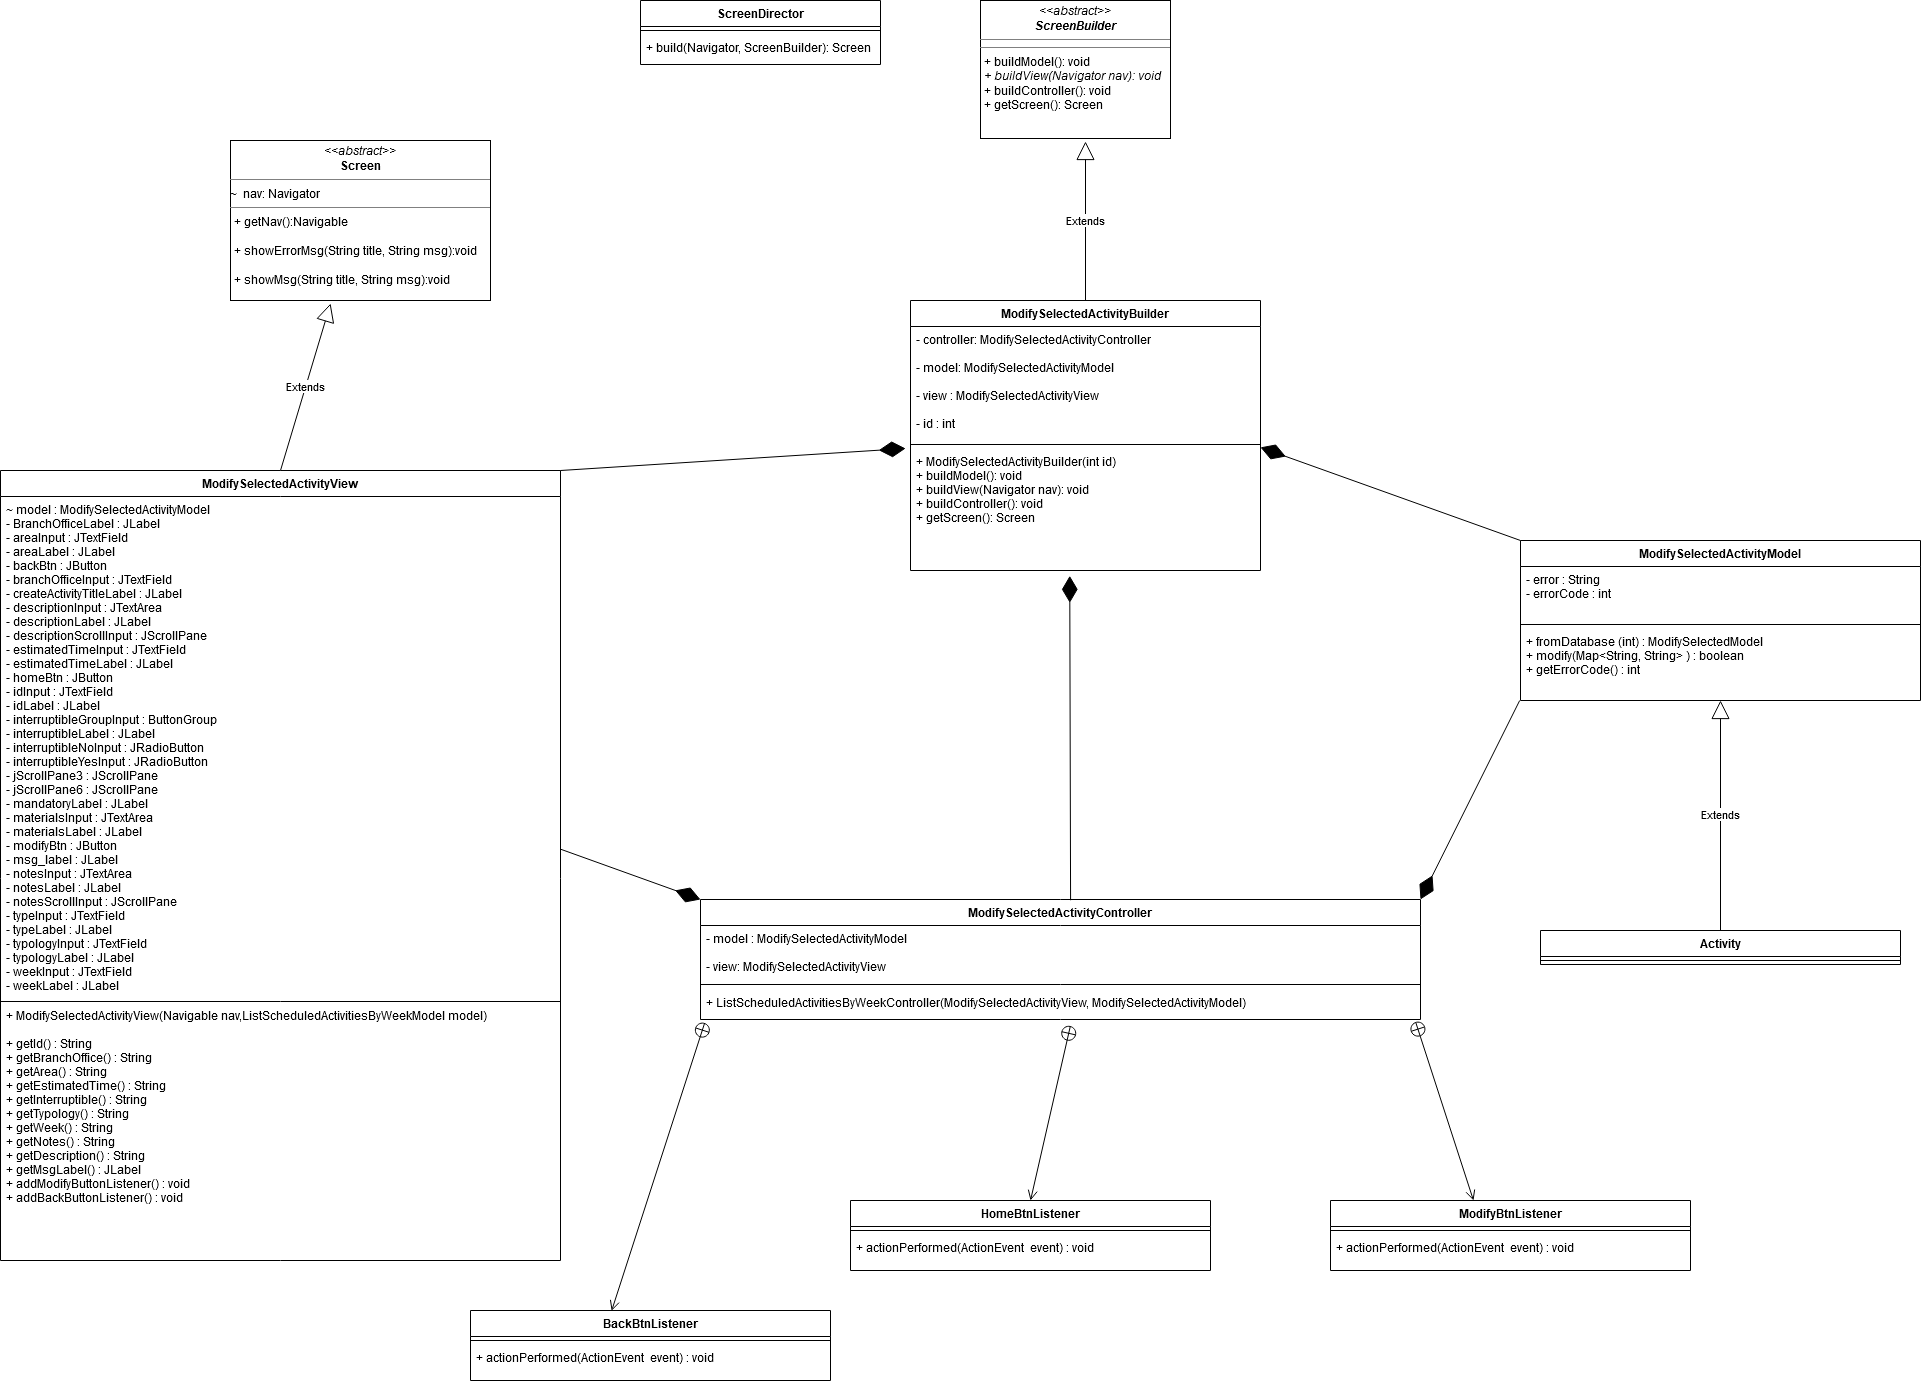
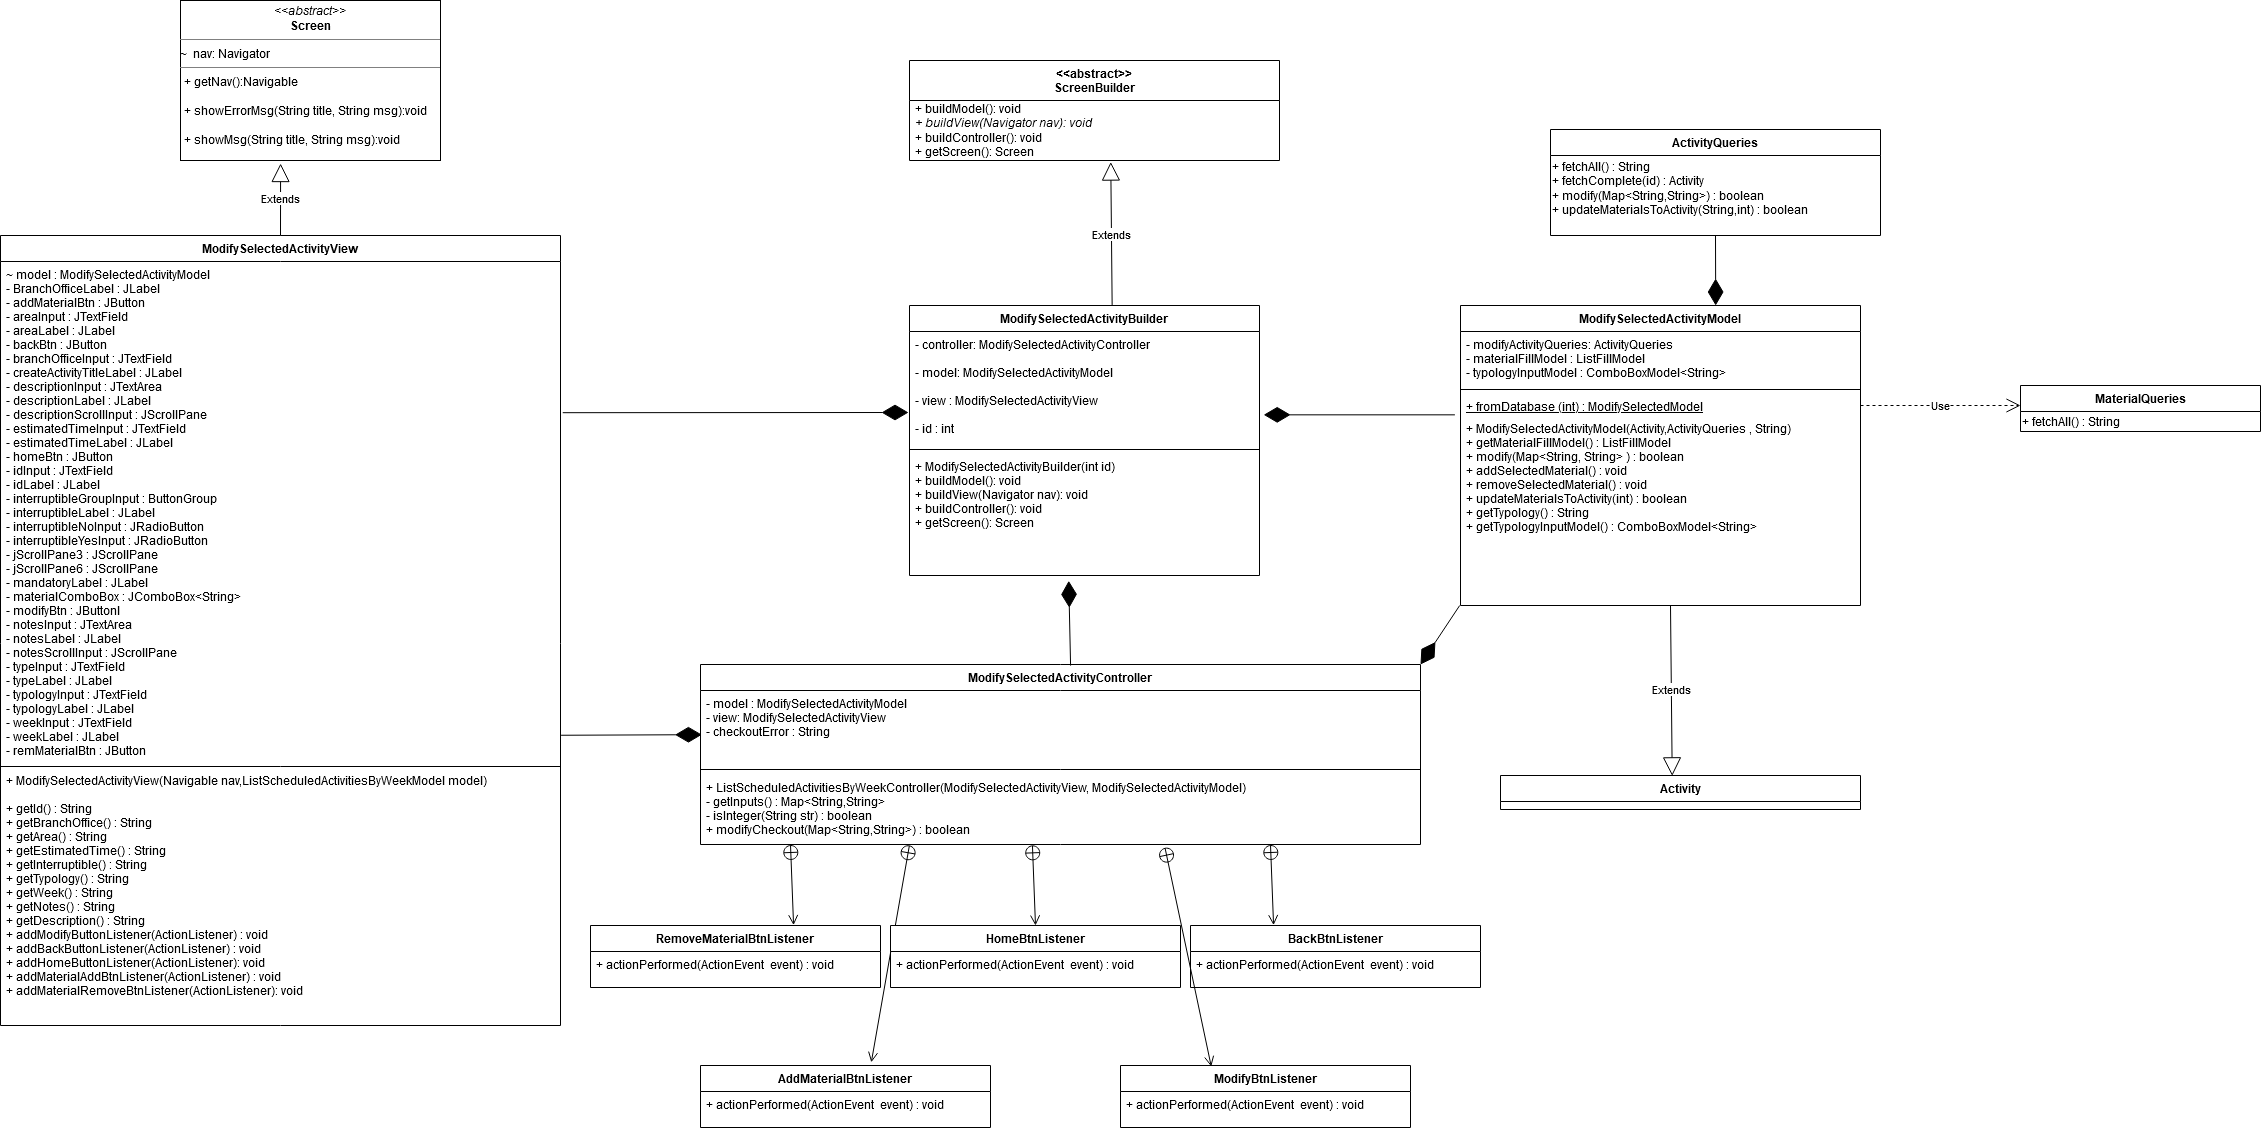
Refactor of createuser using the user in entities
little changes to createuser,listscheduledactivitiesbyweek,modifyselectedactivity
Added the correct designs

diff --git a/MaintenanceApp/src/root/screens/createuser/UserView.java b/MaintenanceApp/src/root/screens/createuser/UserView.java
@@ -1,8 +1,4 @@
-/*
- * To change this license header, choose License Headers in Project Properties.
- * To change this template file, choose Tools | Templates
- * and open the template in the editor.
- */
+
 package root.screens.createuser;
 
 import java.awt.event.ActionListener;
@@ -123,7 +119,7 @@ public class UserView extends Screen {
                         .addGap(0, 0, Short.MAX_VALUE))
                     .addComponent(addressInput, javax.swing.GroupLayout.Alignment.TRAILING)
                     .addComponent(createBtn, javax.swing.GroupLayout.DEFAULT_SIZE, javax.swing.GroupLayout.DEFAULT_SIZE, Short.MAX_VALUE)
-                    .addComponent(cfInput, javax.swing.GroupLayout.DEFAULT_SIZE, 290, Short.MAX_VALUE))
+                    .addComponent(cfInput, javax.swing.GroupLayout.DEFAULT_SIZE, 323, Short.MAX_VALUE))
                 .addContainerGap())
         );
         layout.setVerticalGroup(
@@ -169,7 +165,7 @@ public class UserView extends Screen {
                 .addComponent(addressInput, javax.swing.GroupLayout.PREFERRED_SIZE, 33, javax.swing.GroupLayout.PREFERRED_SIZE)
                 .addPreferredGap(javax.swing.LayoutStyle.ComponentPlacement.RELATED)
                 .addComponent(createBtn)
-                .addContainerGap(javax.swing.GroupLayout.DEFAULT_SIZE, Short.MAX_VALUE))
+                .addContainerGap(51, Short.MAX_VALUE))
         );
     }// </editor-fold>//GEN-END:initComponents
 

diff --git a/MaintenanceApp/test/UserControllerTest.java b/MaintenanceApp/test/UserControllerTest.java
@@ -6,7 +6,7 @@ import org.junit.*;
 import static org.junit.Assert.*;
 import queries.UserQueries;
 import root.Navigable;
-import root.screens.createuser.User;
+import root.entities.User;
 import root.screens.createuser.UserController;
 import root.screens.createuser.UserModel;
 import root.screens.createuser.UserView;
@@ -377,8 +377,8 @@ public class UserControllerTest {
         inputMap.put("address", viewStub.getAddress());
         
         User testUser = controller.createUser(inputMap);
-        User user = new User("GRRTPO04E11L320M","OLMO5","sadasdhjqwdoklkòsd","OLMO","GUERRA",
-                "olm@gmail.com","Avellino Via roma",User.RoleType.P);    
+        User user = new User("OLMO","GUERRA","GRRTPO04E11L320M","olm@gmail.com","Avellino Via roma",
+                "OLMO5","sadasdhjqwdoklkòsd",User.UserRole.PLANNER);     
         assertEquals(user.getCf(), testUser.getCf());
         assertEquals(user.getUsername(), testUser.getUsername());
         assertEquals(user.getPassword(), testUser.getPassword());

diff --git a/MaintenanceApp/src/queries/UserQueries.java b/MaintenanceApp/src/queries/UserQueries.java
@@ -132,7 +132,7 @@ public class UserQueries {
      * @param user
      * @return  true if the insert was successful
      */
-    public boolean insertIntoAppUser(root.screens.createuser.User user){
+    public boolean insertIntoAppUser(User user){
         String query = "INSERT INTO appuser "+
             "(cf, username, pass, user_role, name,"+
             "surname, email, address) VALUES "+
@@ -142,7 +142,7 @@ public class UserQueries {
                 stmt.setString(1, user.getCf());
                 stmt.setString(2,user.getUsername());
                 stmt.setString(3, user.getPassword());
-                stmt.setString(4, user.getRole().toString());
+                stmt.setString(4, user.convertRoleInChar(user.getRole()));
                 stmt.setString(5, user.getName());
                 stmt.setString(6, user.getSurname());
                 stmt.setString(7, user.getEmail());

diff --git a/MaintenanceApp/src/root/screens/createuser/UserController.java b/MaintenanceApp/src/root/screens/createuser/UserController.java
@@ -9,6 +9,7 @@ import java.awt.event.ActionEvent;
 import java.awt.event.ActionListener;
 import java.util.HashMap;
 import java.util.Map;
+import root.entities.*;
 
 /**
  *
@@ -125,9 +126,9 @@ public class UserController {
      * @return user
      */
     public User createUser(Map<String, String> inputMap){
-        return new User(inputMap.get("cf"),inputMap.get("username"),inputMap.get("pass"),
-            inputMap.get("name"),inputMap.get("surname"),inputMap.get("email"),
-            inputMap.get("address"),User.RoleType.valueOf(inputMap.get("user_role")));
+        return new User(inputMap.get("name"),inputMap.get("surname"),inputMap.get("cf"),
+            inputMap.get("email"),inputMap.get("address"),inputMap.get("username"),
+            inputMap.get("pass"),User.convertRawRole(inputMap.get("user_role")));
     }
     
     private class BackBtnListener implements ActionListener {

diff --git a/MaintenanceApp/src/root/screens/modifyselectedactivity/ModifySelectedActivityModel.java b/MaintenanceApp/src/root/screens/modifyselectedactivity/ModifySelectedActivityModel.java
@@ -11,8 +11,8 @@ import ui.ListFillModel;
 
 
 public class ModifySelectedActivityModel extends Activity {
-    ActivityQueries modifyActivityQueries;
-    ListFillModel materialFillModel;
+    private final ActivityQueries modifyActivityQueries;
+    private final ListFillModel materialFillModel;
     private final ComboBoxModel<String> typologyInputModel;
     public ModifySelectedActivityModel(Activity activity,ActivityQueries modifyActivityQueries, String[] allMaterials){
         super(

diff --git a/MaintenanceApp/src/root/screens/listscheduledactivitiesbyweek/ListScheduledActivitiesByWeekModel.java b/MaintenanceApp/src/root/screens/listscheduledactivitiesbyweek/ListScheduledActivitiesByWeekModel.java
@@ -15,7 +15,7 @@ import queries.ActivityQueries;
 public class ListScheduledActivitiesByWeekModel implements Serializable {
     // Used when notifying listeners so they know what has changed
     public static final String NUMWEEK_CHANGE = "numweek";
-    ActivityQueries query;
+    private ActivityQueries query;
     private Integer currentNumWeek;
     private final ComboBoxModel<Integer> numWeekComboBoxModel;
     private DefaultTableModel ScheduledActivitiesTableModel;

diff --git a/MaintenanceApp/src/root/screens/createuser/UserModel.java b/MaintenanceApp/src/root/screens/createuser/UserModel.java
@@ -1,15 +1,12 @@
-/*
- * To change this license header, choose License Headers in Project Properties.
- * To change this template file, choose Tools | Templates
- * and open the template in the editor.
- */
+
 package root.screens.createuser;
 
+
 import queries.UserQueries;
+import root.entities.User;
 
 public class UserModel {
     private String error;
-    private int errorCode;  
     private final UserQueries createUserQueries;
 
     /**

diff --git a/MaintenanceApp/test/stubs/UserQueriesStub.java b/MaintenanceApp/test/stubs/UserQueriesStub.java
@@ -41,7 +41,7 @@ public class UserQueriesStub extends UserQueries {
     }
 
     @Override
-    public boolean insertIntoAppUser(root.screens.createuser.User user) {
+    public boolean insertIntoAppUser(User user) {
         insertIntoAppUserCallCount++;
         return true;
     }    
